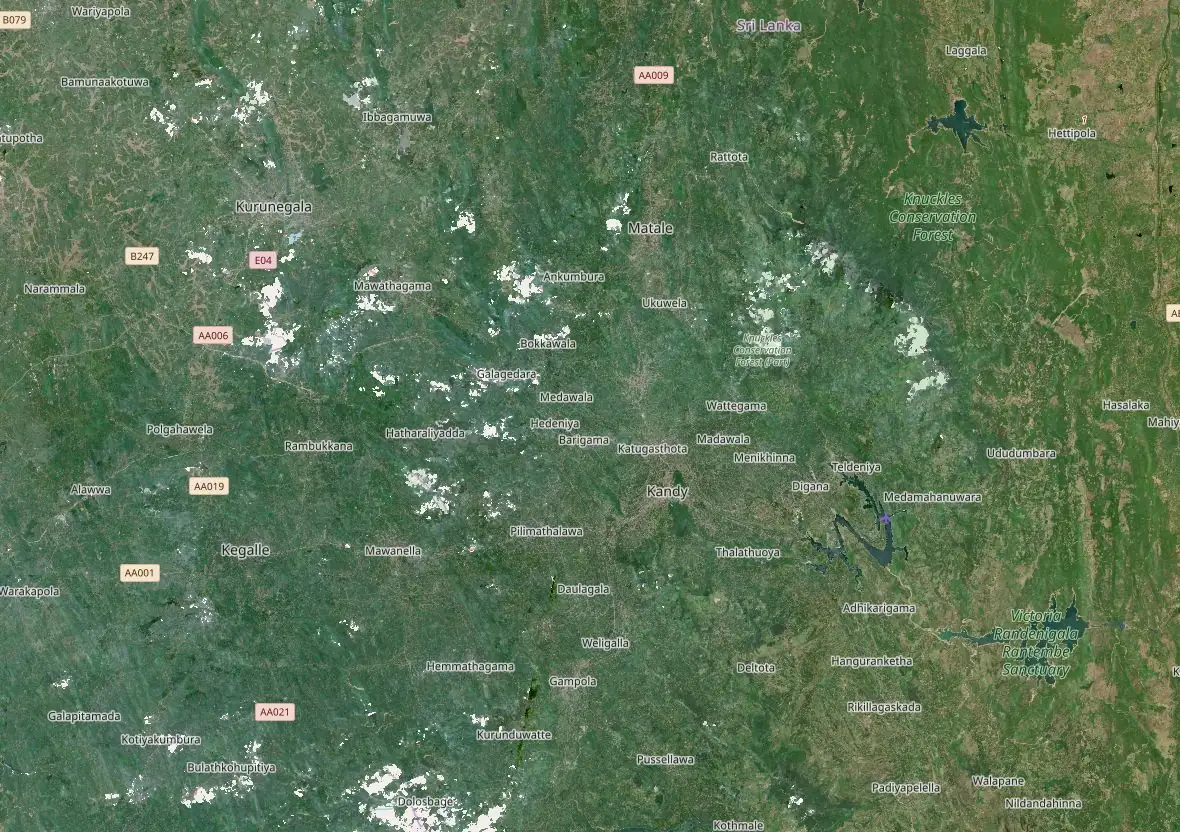
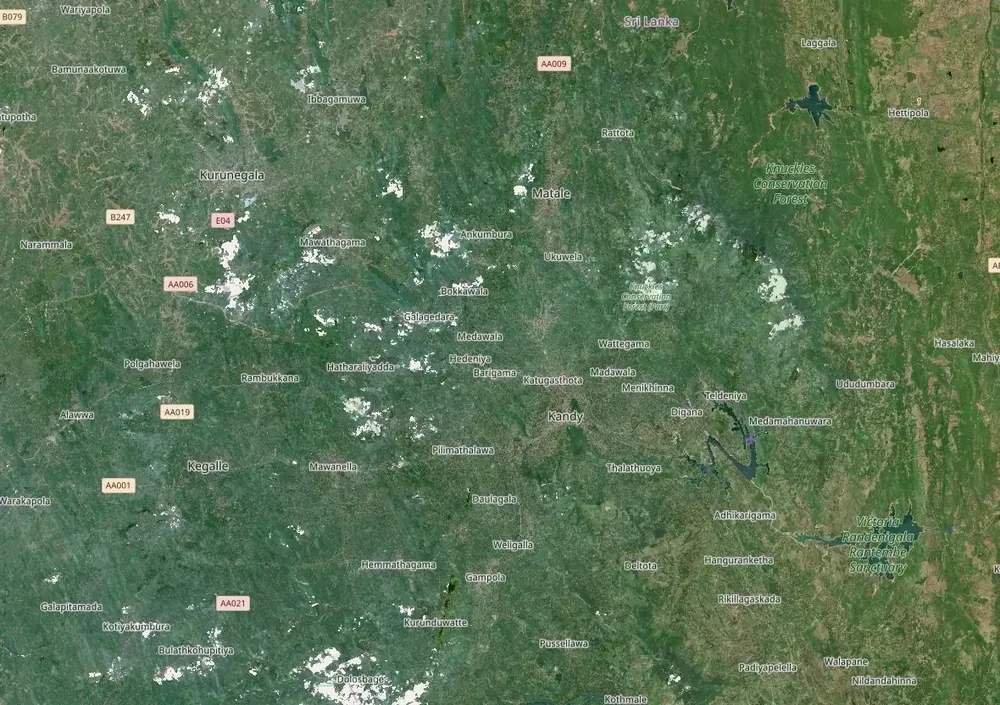
chore: SEO audit, compress images

diff --git a/src/data/imageSizes.ts b/src/data/imageSizes.ts
@@ -1,0 +1,88 @@
+/* GENERATED by scripts/gen-image-sizes.mjs — do not edit by hand.
+   Intrinsic pixel sizes, read from the files in public/images. They are set
+   on every <img> so the browser reserves the right space before the image
+   arrives, instead of shifting the page when it does. */
+export const imageSizes: Record<string, [number, number]> = {
+  "/images/favicon.svg": [
+    48,
+    48
+  ],
+  "/images/logos/aswenna-mark.svg": [
+    48,
+    48
+  ],
+  "/images/logos/aswenna-white.svg": [
+    220,
+    48
+  ],
+  "/images/logos/atp.webp": [
+    131,
+    76
+  ],
+  "/images/logos/iit.png": [
+    240,
+    98
+  ],
+  "/images/logos/veyra-placeholder.svg": [
+    220,
+    48
+  ],
+  "/images/og-cover.jpg": [
+    1200,
+    630
+  ],
+  "/images/photos/connectivity-gap.webp": [
+    900,
+    507
+  ],
+  "/images/photos/field-crop-health.webp": [
+    1200,
+    674
+  ],
+  "/images/photos/field-land-mapping.webp": [
+    1000,
+    705
+  ],
+  "/images/photos/field-pest-detection.webp": [
+    500,
+    667
+  ],
+  "/images/photos/hero-field.webp": [
+    2000,
+    1145
+  ],
+  "/images/photos/market-trend.webp": [
+    1200,
+    900
+  ],
+  "/images/photos/problem-climate.webp": [
+    760,
+    488
+  ],
+  "/images/photos/problem-market.webp": [
+    760,
+    507
+  ],
+  "/images/photos/problem-pests.webp": [
+    1050,
+    1400
+  ],
+  "/images/photos/problem-postharvest.webp": [
+    701,
+    394
+  ],
+  "/images/photos/problem-soil.webp": [
+    1100,
+    733
+  ],
+  "/images/photos/problem-water.webp": [
+    760,
+    506
+  ]
+};
+
+/** width/height props for an <img>, or nothing when the file is unknown. */
+export function imgSize(src: string): { width: number; height: number } | Record<string, never> {
+  const s = imageSizes[src];
+  return s ? { width: s[0], height: s[1] } : {};
+}

diff --git a/index.html b/index.html
@@ -19,11 +19,10 @@
          value feeds robots.txt and sitemap.xml (scripts/gen-seo.mjs).
          Change it in ONE place: .env.
          =================================================================== -->
-    <title>Aswenna — Smarter fields, greater future | IoT precision farming for Sri Lanka</title>
-    <meta
-      name="description"
-      content="Aswenna is an IoT-enabled precision farming platform for Sri Lankan agriculture: soil intelligence, hyperlocal weather, AI crop recommendations, smart irrigation and market intelligence — in Sinhala, Tamil and English."
-    />
+    <!-- seo:head -->
+    <title>Aswenna — IoT precision farming for Sri Lankan farms</title>
+    <meta name="description" content="Soil intelligence, hyperlocal weather, crop recommendations and market data for Sri Lankan smallholdings. In Sinhala, Tamil and English." />
+    <!-- /seo:head -->
     <meta name="author" content="Veyra Solutions" />
     <meta name="robots" content="index, follow, max-image-preview:large" />
     <link rel="canonical" href="%VITE_SITE_URL%/" />
@@ -152,7 +151,7 @@
             "description": "An IoT-enabled precision farming platform for Sri Lankan agriculture — soil intelligence, hyperlocal weather, AI recommendations, smart irrigation, crop-health monitoring and market intelligence.",
             "inLanguage": "en",
             "datePublished": "2025-01-01",
-            "dateModified": "2026-11-17",
+            "dateModified": "2026-11-18",
             "hasPart": [
               {
                 "@type": "WebPageElement",

diff --git a/src/components/ProblemsSection.tsx b/src/components/ProblemsSection.tsx
@@ -2,6 +2,7 @@ import Icon from "./Icon";
 import Reveal from "./Reveal";
 import SectionHead from "./SectionHead";
 import { problems } from "../data/content";
+import { imgSize } from "../data/imageSizes";
 import { useI18n } from "../i18n";
 
 export default function ProblemsSection() {
@@ -17,7 +18,7 @@ export default function ProblemsSection() {
             <Reveal as="article" delay={i * 70} key={p.title}>
               <div className="problem">
                 <div className="media media--16x9 problem__media">
-                  <img src={p.photo} alt={p.alt} loading="lazy" />
+                  <img src={p.photo} alt={p.alt} loading="lazy" {...imgSize(p.photo)} />
                   <span className="problem__tag">{t(`problems.items.${i}.tag`, p.tag)}</span>
                 </div>
                 <div className="problem__body">
@@ -32,7 +33,7 @@ export default function ProblemsSection() {
         <Reveal>
           <article className="gap">
             <div className="media gap__media">
-              <img src={problems.gap.photo} alt={problems.gap.alt} loading="lazy" />
+              <img src={problems.gap.photo} alt={problems.gap.alt} loading="lazy" {...imgSize(problems.gap.photo)} />
               <span className="problem__tag">{problems.gap.tag}</span>
             </div>
             <div className="gap__body">

diff --git a/src/data/content.ts b/src/data/content.ts
@@ -15,6 +15,15 @@ export const site = {
      paragraph; the paragraph is gone, the metadata still needs it. */
   description:
     "An IoT-enabled precision farming platform for Sri Lankan agriculture — soil intelligence, hyperlocal weather, AI recommendations, smart irrigation, crop-health monitoring and market intelligence.",
+
+  /* What a search result actually shows. Google cuts a title at roughly 60
+     characters and a description at roughly 160, so these are written to fit
+     rather than to be complete — `description` above stays long because the
+     structured data and the manifest have no such limit. Both are written
+     into index.html by scripts/gen-seo.mjs, so there is one source. */
+  metaTitle: "Aswenna — IoT precision farming for Sri Lankan farms",
+  metaDescription:
+    "Soil intelligence, hyperlocal weather, crop recommendations and market data for Sri Lankan smallholdings. In Sinhala, Tamil and English.",
 };
 
 export const contactDetails = {

diff --git a/src/components/SeasonsSection.tsx b/src/components/SeasonsSection.tsx
@@ -3,6 +3,7 @@ import Icon from "./Icon";
 import Reveal from "./Reveal";
 import SectionHead from "./SectionHead";
 import { seasons } from "../data/content";
+import { imgSize } from "../data/imageSizes";
 import { useI18n } from "../i18n";
 import { useMediaQuery, useOnScreen, useReducedMotion } from "../hooks";
 
@@ -97,7 +98,7 @@ export default function SeasonsSection() {
                 >
                   {isOpen ? (
                     <>
-                      <img className="stage__photo" src={s.photo} alt="" aria-hidden="true" loading="lazy" />
+                      <img className="stage__photo" src={s.photo} alt="" aria-hidden="true" loading="lazy" {...imgSize(s.photo)} />
                       <span className="stage__veil" aria-hidden="true" />
                     </>
                   ) : null}

diff --git a/src/components/CtaSection.tsx b/src/components/CtaSection.tsx
@@ -1,6 +1,7 @@
 import Icon from "./Icon";
 import Reveal from "./Reveal";
 import { cta, site } from "../data/content";
+import { imgSize } from "../data/imageSizes";
 import { useI18n } from "../i18n";
 
 export default function CtaSection() {
@@ -9,7 +10,7 @@ export default function CtaSection() {
   return (
     <section className="cta" id="cta" data-dark>
       <div className="cta__panel">
-        <img className="cta__photo" src={cta.photo} alt="" aria-hidden="true" loading="lazy" />
+        <img className="cta__photo" src={cta.photo} alt="" aria-hidden="true" loading="lazy" {...imgSize(cta.photo)} />
         <div className="cta__veil" aria-hidden="true" />
         <Reveal className="container cta__inner">
           <span className="cta__eyebrow">

diff --git a/src/components/FieldSection.tsx b/src/components/FieldSection.tsx
@@ -2,6 +2,7 @@ import Icon from "./Icon";
 import Reveal from "./Reveal";
 import SectionHead from "./SectionHead";
 import { field } from "../data/content";
+import { imgSize } from "../data/imageSizes";
 import { useI18n } from "../i18n";
 
 export default function FieldSection() {
@@ -17,7 +18,7 @@ export default function FieldSection() {
               <article className="field__card">
                 {f.photo ? (
                   <div className="media media--5x3 field__media">
-                    <img src={f.photo} alt={f.alt} loading="lazy" />
+                    <img src={f.photo} alt={f.alt} loading="lazy" {...imgSize(f.photo)} />
                   </div>
                 ) : (
                   <div className="field__art" aria-hidden="true">

diff --git a/src/components/FieldFirstSection.tsx b/src/components/FieldFirstSection.tsx
@@ -3,6 +3,7 @@ import Reveal from "./Reveal";
 import SectionHead from "./SectionHead";
 import AppPhone from "./app/AppPhone";
 import { fieldFirst } from "../data/content";
+import { imgSize } from "../data/imageSizes";
 import { useI18n } from "../i18n";
 
 export default function FieldFirstSection() {
@@ -39,6 +40,7 @@ export default function FieldFirstSection() {
                   src="/images/photos/connectivity-gap.webp"
                   alt="Paddy fields and coconut palms in rural Sri Lanka"
                   loading="lazy"
+                  {...imgSize("/images/photos/connectivity-gap.webp")}
                 />
               </div>
               <div className="ffirst__device">

diff --git a/src/components/Hero.tsx b/src/components/Hero.tsx
@@ -1,6 +1,7 @@
 import { Fragment } from "react";
 import Icon from "./Icon";
 import { hero, partners } from "../data/content";
+import { imgSize } from "../data/imageSizes";
 import { useI18n } from "../i18n";
 
 /**
@@ -67,7 +68,7 @@ export default function Hero() {
         <ul className="hero__partners-row">
           {partners.logos.map((logo) => (
             <li className={`hero__partner ${logo.cls}`} key={logo.src}>
-              <img src={logo.src} alt={logo.alt} loading="lazy" />
+              <img src={logo.src} alt={logo.alt} loading="lazy" {...imgSize(logo.src)} />
             </li>
           ))}
         </ul>
